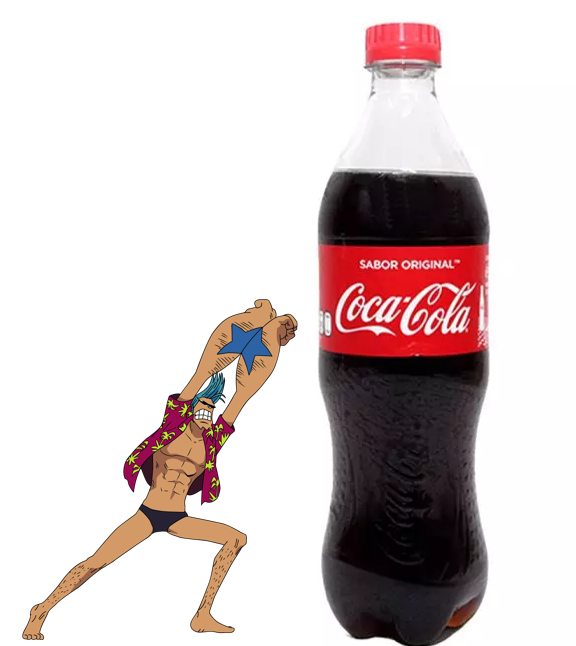
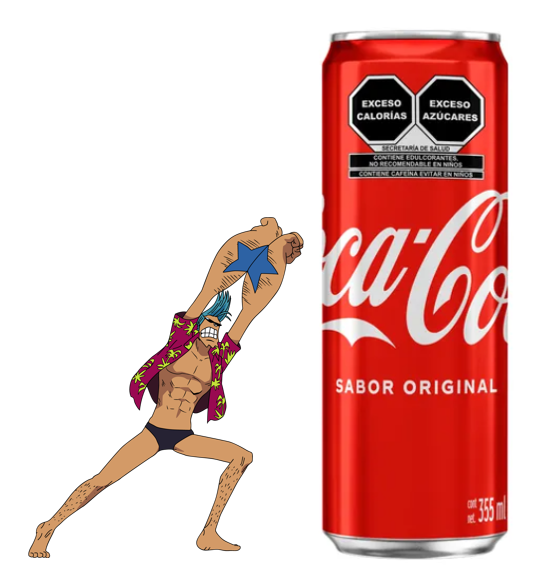
Mejora responsividad

diff --git a/index.html b/index.html
@@ -54,7 +54,7 @@
                         <span class="icon-menu">
                             <a class="nav-link nav-link-desktop" href="#Pago">
                                 <i class="uil uil-message"></i>
-                                Pedir
+                                Servicio
                             </a>
                     </div>
                 </div>
@@ -86,13 +86,13 @@
                                         class="uil uil-utensils-alt"> </i>Chilaquiles</a></span></div>
                         <div class="col d-flex justify-content-center"><span class="icon-menu"><a
                                     class="nav-link nav-link-mobile" href="#Bebidas"><i class="bi bi-cup-straw"></i>
-                                    Extras</a></span></div>
+                                    Bebidas</a></span></div>
                         <div class="col d-flex justify-content-center"><span class="icon-menu"><a
                                     class="nav-link nav-link-mobile" href="#Snacks"><i
-                                        class="uil uil-grin-tongue-wink"></i> Dulces</a></span></div>
+                                        class="uil uil-grin-tongue-wink"></i> Extras</a></span></div>
                         <div class="col d-flex justify-content-center"><span class="icon-menu"><a
-                                    class="nav-link nav-link-mobile" href="#Pago"><i
-                                        class="uil uil-message"></i>&nbsp;Pedir</a></div>
+                                    class="nav-link nav-link-mobile" href="#Ordenar"><i
+                                        class="uil uil-message"></i>&nbsp;Servicio</a></div>
                     </div>
                 </div>
 
@@ -140,6 +140,7 @@
                 </div>
             </figure>
         </section>
+
         <!-- ================  PRODUCTOS  ================ -->
         <section>
             <div class="text-center">
@@ -226,7 +227,7 @@
         <section>
             <h1 class="title text-center" id="Ordenar"><i class="uil uil-telegram"></i> ORDENAR
             </h1>
-            <p class="subtitle mt-5 container">Realiza tu pedido a través de WhatsApp o por teléfono.</p>
+            <p class="subtitle container mt-5 text-center">Realiza tu pedido a través de WhatsApp o por teléfono<br> <span style="font-size: .8rem;">⌚ De 8:00 a.m. a 5:00p.m.</span></p>
 
             <div class="row row-cols-1 row-cols-sm-1 row-cols-md-2 justify-content-center">
                 <div class="col text-center celular-container d-flex flex-column">
@@ -236,8 +237,7 @@
                     <div>
                         <i class="uil uil-phone contact-icon"></i> 55-68-35-80-39
                     </div>
-                </div>
-
+                </div>                
                 <div class="col d-flex justify-content-center zoro-running-container">
                     <div class="gif-entrega">
                         <p>SERVICIO RÁPIDO</p>
@@ -245,13 +245,14 @@
                     </div>
                 </div>
             </div>
-        </section>
+            <p class="subtitle mt-5 container text-center">Al atenderte, te indicaremos el tiempo aproximado de entrega</p>
 
+        </section>
         <!-- ================  MÉTODOS DE PAGO  ================ -->
         <section>
             <h1 class="title text-center" id="Pago"><i class="uil uil-wallet"></i> PAGO</h1>
-            <p class="subtitle container mt-3 mb-5">Al momento de recibir tu pedido, podrás pagar fácilmente con
-                tarjeta o efectivo</p>
+            <p class="subtitle container mt-3 mb-5 text-center">Podrás pagar fácilmente con
+                tarjeta o efectivo al recibir tu pedido</p>
 
             <div class="container">
 
@@ -318,13 +319,13 @@
     <footer>
         <ul class="list-unstyled d-flex justify-content-between align-items-center">
             <li>
-                <a href="https://twitter.com/?lang=es" target="_blank">
+                <a href="https://wa.me/525586832459?text=¡Hola!" target="_blank">
                     <i class="bi bi-whatsapp"></i>
                 </a>
             </li>
 
             <li>
-                <a href="https://twitter.com/?lang=es" target="_blank">
+                <a href="https://facebook.com/?lang=es" target="_blank">
                     <i class="bi bi-facebook"></i>
                 </a>
             </li>

diff --git a/styles/main.css b/styles/main.css
@@ -73,13 +73,13 @@ body {
 /* =========== Títulos ========== */
 
 .title,
-.desayuno-subtitle{
+.desayuno-subtitle {
     color: rgb(30, 30, 30);
     font-family: 'Oswald', sans-serif;
     text-shadow: 2px 2px 0px var(--primmary-color);
 }
 
-.title{
+.title {
     font-size: 3rem;
     margin-top: 5rem;
     margin-bottom: 3rem;
@@ -91,9 +91,10 @@ body {
     color: #5c5c5c;
 }
 
-.desayuno-subtitle{
+.desayuno-subtitle {
     font-size: 1.8rem;
     margin-top: 3rem;
+    margin-bottom: 0;
 }
 
 
@@ -104,7 +105,7 @@ body {
     color: #5c5c5c;
 }
 
-.card-desktop{
+.card-desktop {
     border: 1px solid var(--border-card-color);
 }
 
@@ -171,10 +172,10 @@ body {
     margin-left: 1.5rem;
     margin-right: 1.5rem;
     display: inline-block;
-    margin-top: 2rem;
+    margin-top: 3.5rem;
 }
 
-.carne{
+.carne {
     font-size: 1rem;
     margin-left: 1rem;
     margin-right: 1rem;
@@ -214,7 +215,7 @@ body {
     padding: 1rem 0.5rem 2rem .5rem;
 }
 
-.gramos{
+.gramos {
     font-size: .8rem;
 }
 
@@ -591,7 +592,7 @@ footer ul li a {
         transition: .3s;
     }
 
-    .img-producto-container{
+    .img-producto-container {
         margin-top: 1.5rem;
     }
 

diff --git a/js/main.js b/js/main.js
@@ -44,7 +44,7 @@ let desayunos = [
 
 let bebidas = [
     {
-        nombre: "Coca-cola 600 ml",
+        nombre: "Coca-cola 355 ml",
         precio: "20.00",
         texto: "Sumérgete en el sabor clásico que te revitaliza en cualquier momento y lugar.<br>¡Refresca tu sed hoy!",
         imagen: "./src/img/franky-super-coca.png",
